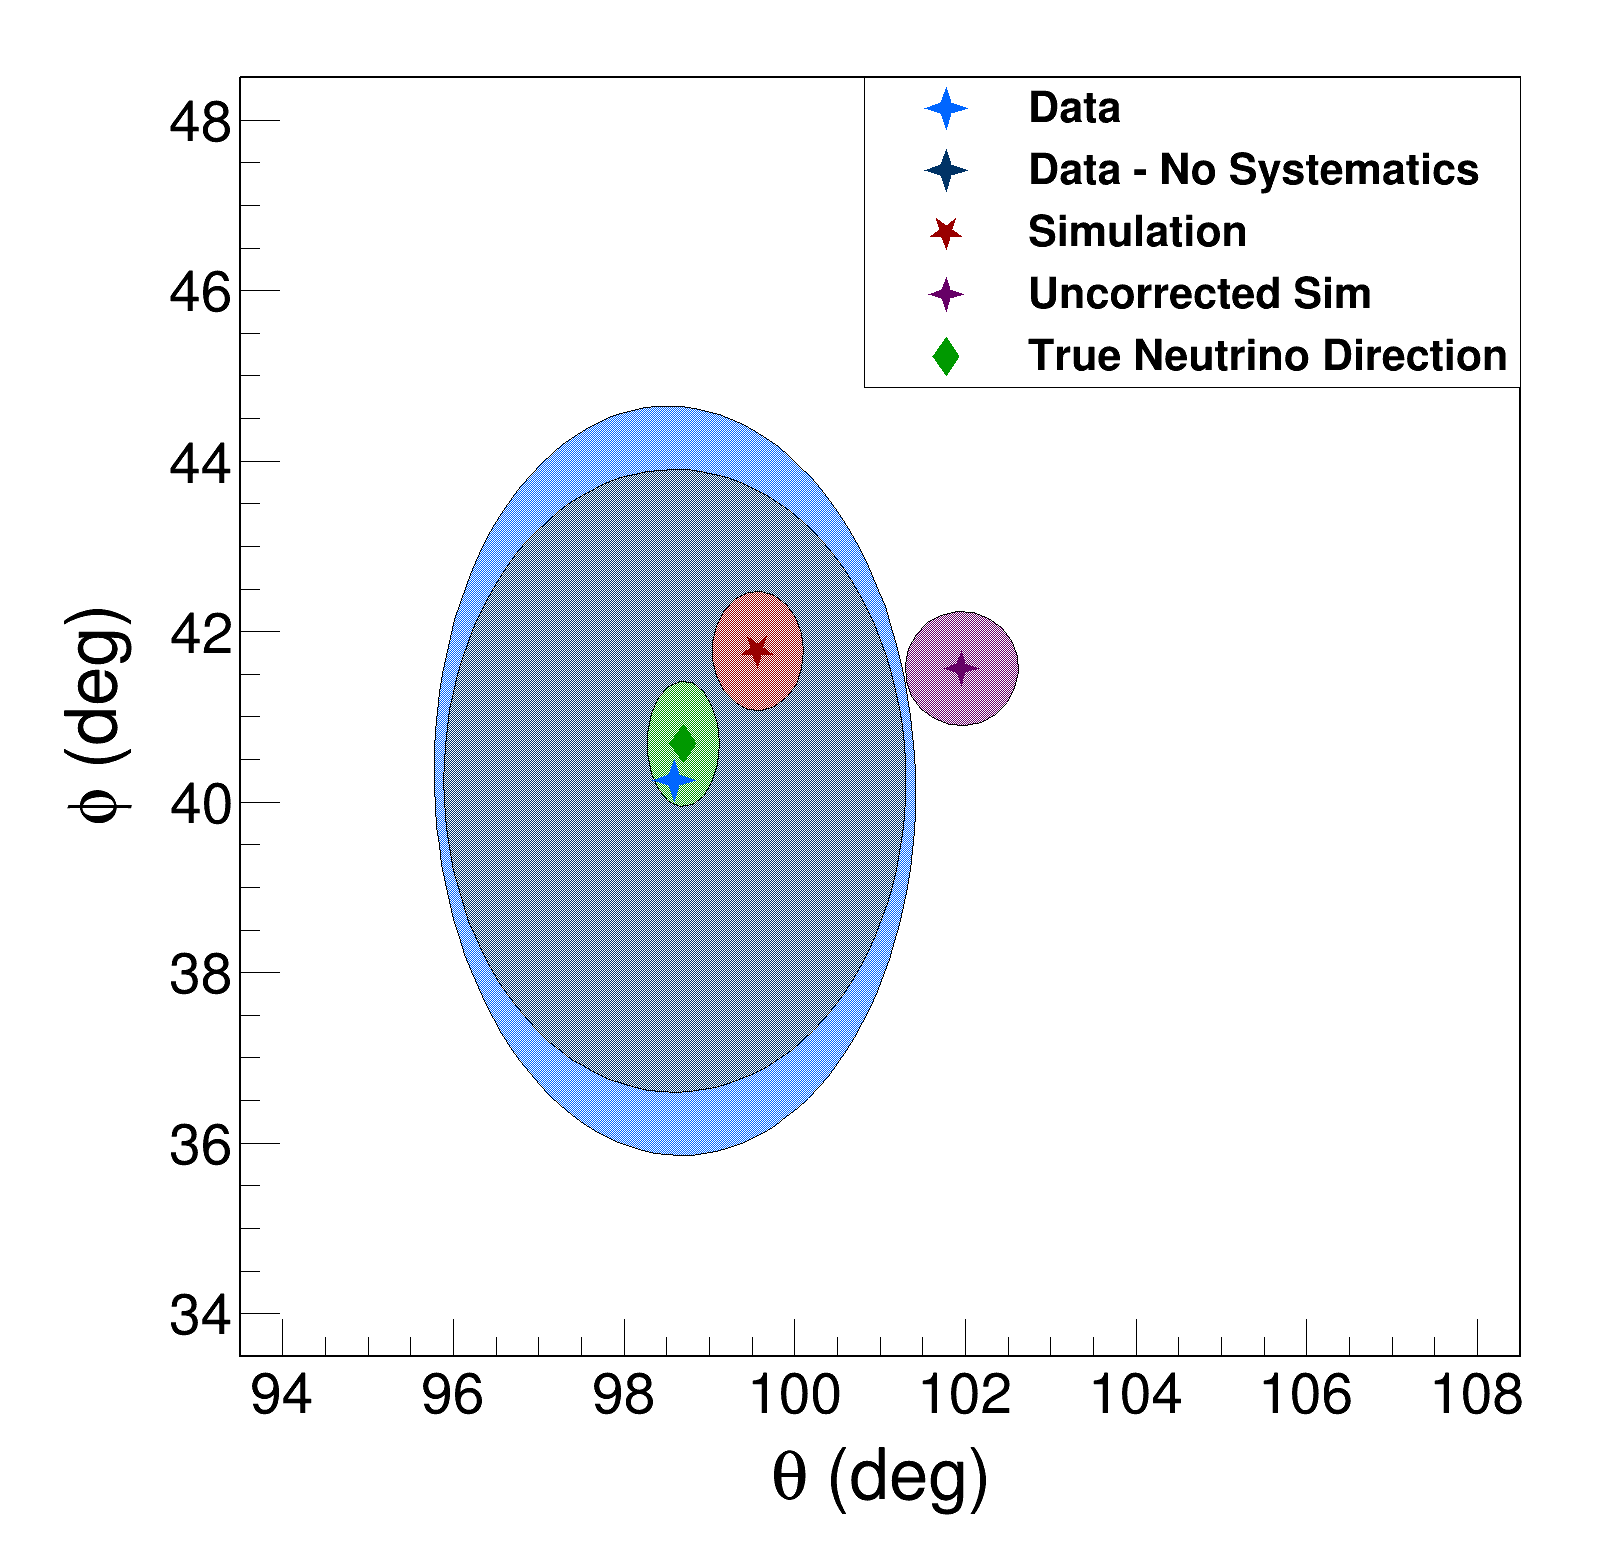
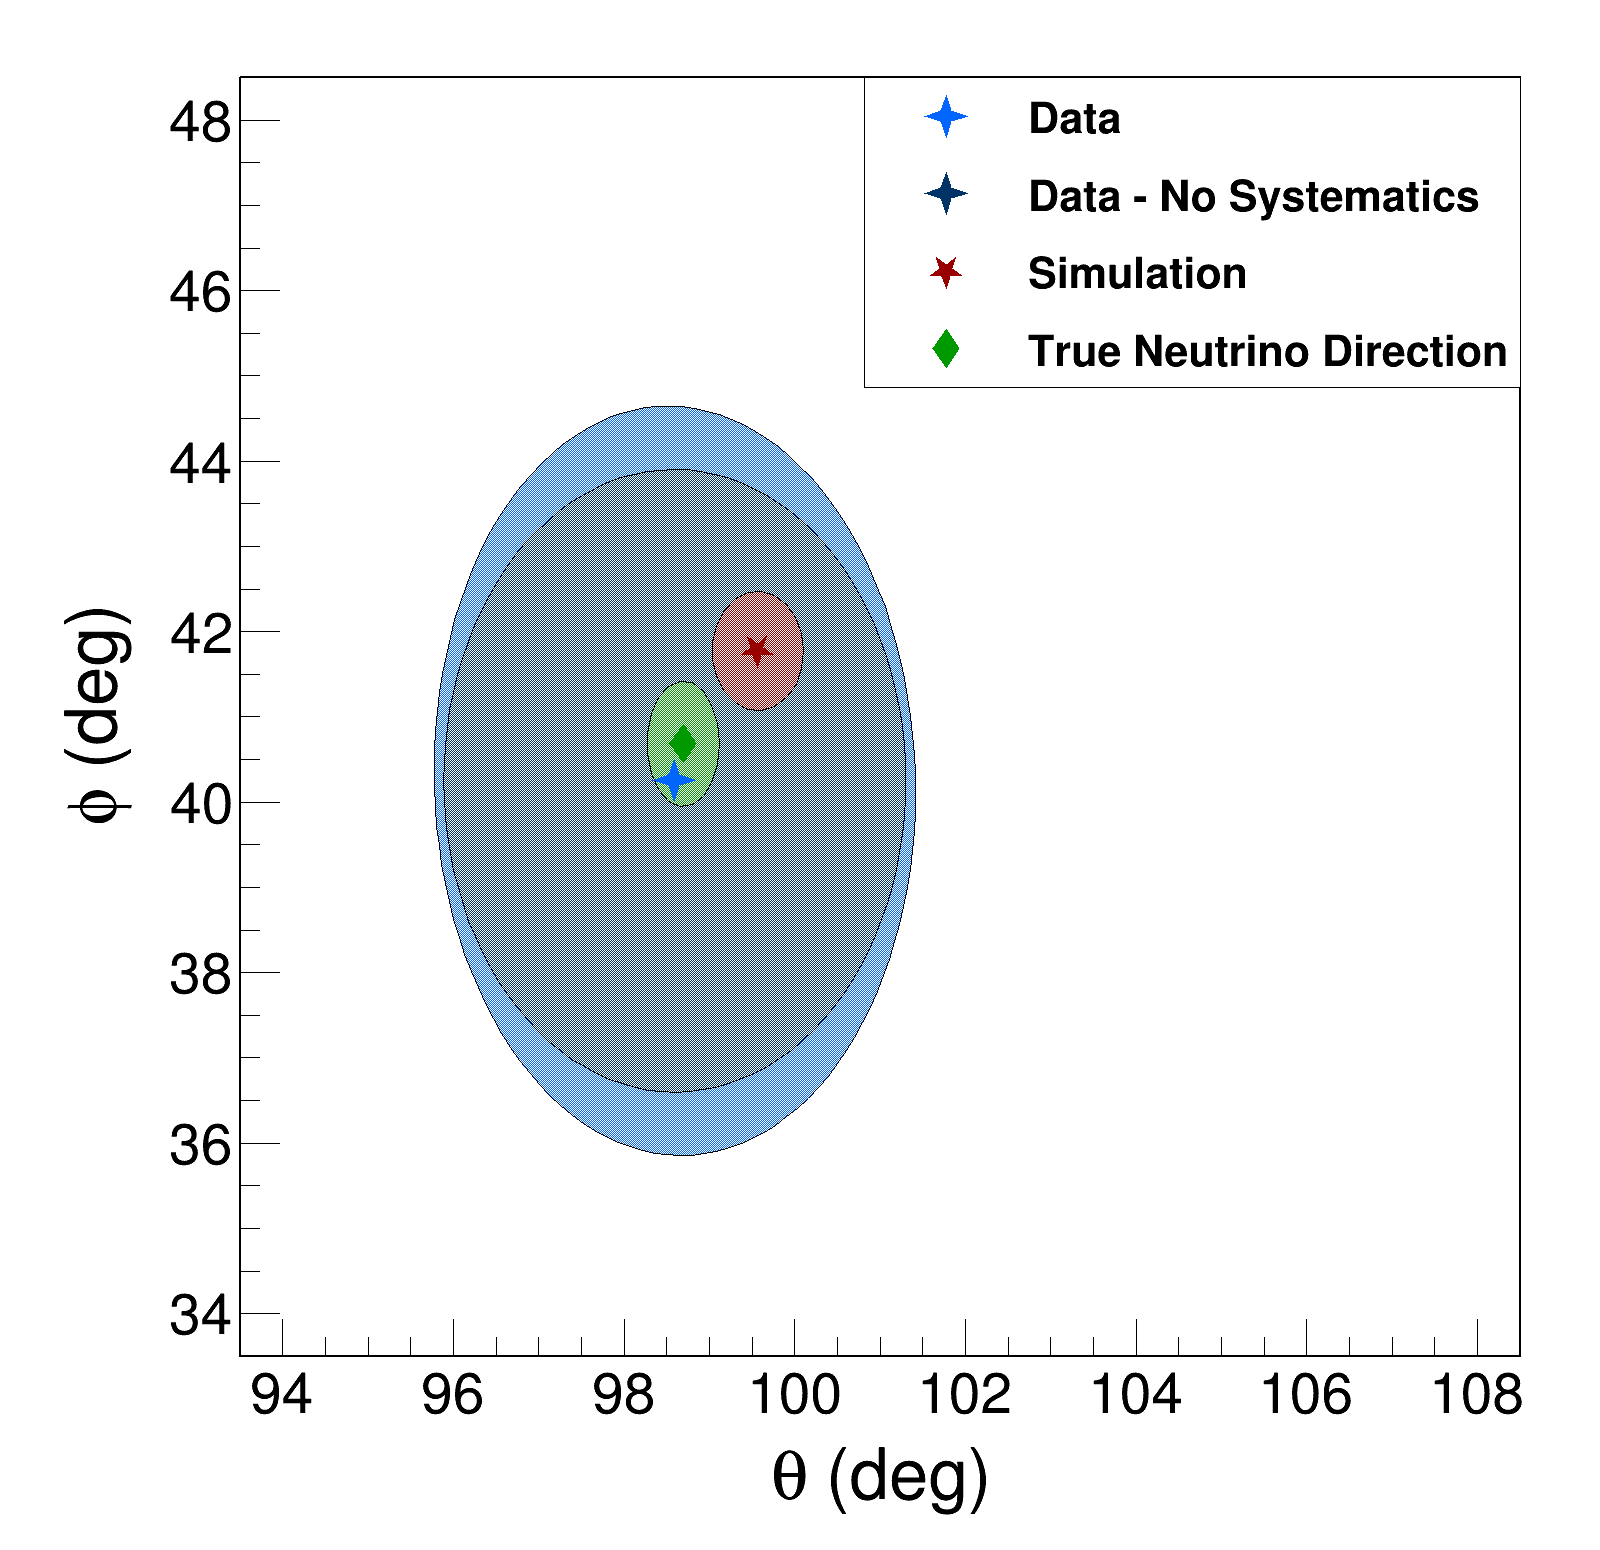
Removed uncorrected sim from final plot and added a sim-only plot.

Changed region(s): [[0.625, 0.0619, 0.9375, 0.2477], [0.5625, 0.3716, 0.6562, 0.4645], [0.5625, 0.0619, 0.5938, 0.2168]]

diff --git a/NeutrinoDirectionalityPlots.cc b/NeutrinoDirectionalityPlots.cc
@@ -149,7 +149,87 @@ void MakeDisplacementPlots(array<array<array<std::shared_ptr<TH1F>, DirectionSiz
     }
 }
 
-void MakeAnglePlots(FinalValues const& finalValues)
+void MakeSimulationPlot(FinalValues const& finalValues)
+{
+    // Setting up canvas, no top margin because no title
+    TCanvas canvas("Angles", "Angles");
+
+    canvas.SetCanvasSize(1600, 1550);
+    canvas.SetTopMargin(0.05);
+    canvas.SetBottomMargin(0.125);
+
+    // Need to draw a frame to set bounds
+    auto frame = canvas.DrawFrame(93.5, 33.5, 108.5, 48.5);
+
+    // Setting up axis labels
+    frame->GetXaxis()->SetTitle("#theta (deg)");
+    frame->GetYaxis()->SetTitle("#phi (deg)");
+    frame->GetXaxis()->CenterTitle(kTRUE);
+    frame->GetYaxis()->CenterTitle(kTRUE);
+
+    // Making sure the font is legible
+    frame->GetXaxis()->SetTitleSize(0.05);
+    frame->GetYaxis()->SetTitleSize(0.05);
+    frame->GetXaxis()->SetLabelSize(0.04);
+    frame->GetYaxis()->SetLabelSize(0.04);
+
+    // Error ellipses for each data point
+    TEllipse Simulation(finalValues.theta[SimUnbiased],
+                        finalValues.phi[SimUnbiased],
+                        finalValues.thetaError[SimUnbiased],
+                        finalValues.phiError[SimUnbiased],
+                        0,
+                        360,
+                        finalValues.tilt[SimUnbiased]);
+    Simulation.SetFillColor(kRed + 2);
+    Simulation.SetFillStyle(3001);
+    Simulation.Draw();
+
+    TEllipse SimulationUncorrected(finalValues.theta[Sim],
+                                   finalValues.phi[Sim],
+                                   finalValues.thetaError[Sim],
+                                   finalValues.phiError[Sim],
+                                   0,
+                                   360,
+                                   finalValues.tilt[Sim]);
+    SimulationUncorrected.SetFillColor(kMagenta + 3);
+    SimulationUncorrected.SetFillStyle(3001);
+    SimulationUncorrected.Draw();
+
+    TEllipse True(finalValues.thetaTrue, finalValues.phiTrue, finalValues.thetaTrueError, finalValues.phiTrueError);
+    True.SetFillColor(kGreen + 2);
+    True.SetFillStyle(3001);
+    True.Draw();
+
+    // Setting up data markers
+    TMarker simPoint(finalValues.theta[SimUnbiased], finalValues.phi[SimUnbiased], 29);
+    simPoint.SetMarkerSize(4.5);
+    simPoint.SetMarkerColor(kRed + 2.25);
+    simPoint.Draw();
+
+    TMarker simUncorrectedPoint(finalValues.theta[Sim], finalValues.phi[Sim], 43);
+    simUncorrectedPoint.SetMarkerSize(4.5);
+    simUncorrectedPoint.SetMarkerColor(kMagenta + 3.25);
+    simUncorrectedPoint.Draw();
+
+    TMarker truePoint(finalValues.thetaTrue, finalValues.phiTrue, 33);
+    truePoint.SetMarkerSize(5);
+    truePoint.SetMarkerColor(kGreen + 2.25);
+    truePoint.Draw();
+
+    TLegend legend(0.54, 0.75, 0.95, 0.95);
+    legend.SetTextFont(62);
+    legend.SetTextSize(0.03);
+    legend.AddEntry(&simPoint, "Simulation", "p");
+    legend.AddEntry(&simUncorrectedPoint, "Uncorrected Sim", "p");
+    legend.AddEntry(&truePoint, "True Neutrino Direction", "p");
+    legend.Draw();
+
+    string fullPath = plotDirectory + "/SimulationPlot.png";
+    canvas.SaveAs(fullPath.c_str());
+}
+
+void MakeFinalPlot(FinalValues const& finalValues)
 {
     // Setting up canvas, no top margin because no title
     TCanvas canvas("Angles", "Angles");
@@ -207,17 +287,6 @@ void MakeAnglePlots(FinalValues const& finalValues)
     Simulation.SetFillStyle(3001);
     Simulation.Draw();
 
-    TEllipse SimulationUncorrected(finalValues.theta[Sim],
-                                   finalValues.phi[Sim],
-                                   finalValues.thetaError[Sim],
-                                   finalValues.phiError[Sim],
-                                   0,
-                                   360,
-                                   finalValues.tilt[Sim]);
-    SimulationUncorrected.SetFillColor(kMagenta + 3);
-    SimulationUncorrected.SetFillStyle(3001);
-    SimulationUncorrected.Draw();
-
     TEllipse True(finalValues.thetaTrue, finalValues.phiTrue, finalValues.thetaTrueError, finalValues.phiTrueError);
     True.SetFillColor(kGreen + 2);
     True.SetFillStyle(3001);
@@ -238,11 +307,6 @@ void MakeAnglePlots(FinalValues const& finalValues)
     simPoint.SetMarkerColor(kRed + 2.25);
     simPoint.Draw();
 
-    TMarker simUncorrectedPoint(finalValues.theta[Sim], finalValues.phi[Sim], 43);
-    simUncorrectedPoint.SetMarkerSize(4.5);
-    simUncorrectedPoint.SetMarkerColor(kMagenta + 3.25);
-    simUncorrectedPoint.Draw();
-
     TMarker truePoint(finalValues.thetaTrue, finalValues.phiTrue, 33);
     truePoint.SetMarkerSize(5);
     truePoint.SetMarkerColor(kGreen + 2.25);
@@ -254,7 +318,6 @@ void MakeAnglePlots(FinalValues const& finalValues)
     legend.AddEntry(&dataPoint, "Data", "p");
     legend.AddEntry(&dataSystematicsPoint, "Data - No Systematics", "p");
     legend.AddEntry(&simPoint, "Simulation", "p");
-    legend.AddEntry(&simUncorrectedPoint, "Uncorrected Sim", "p");
     legend.AddEntry(&truePoint, "True Neutrino Direction", "p");
     legend.Draw();
 
@@ -345,7 +408,8 @@ int NeutrinoDirectionalityPlots()
     rootFile->Close();
 
     MakeDisplacementPlots(histogram);
-    MakeAnglePlots(finalValues);
+    MakeSimulationPlot(finalValues);
+    MakeFinalPlot(finalValues);
 
     return 0;
 }
